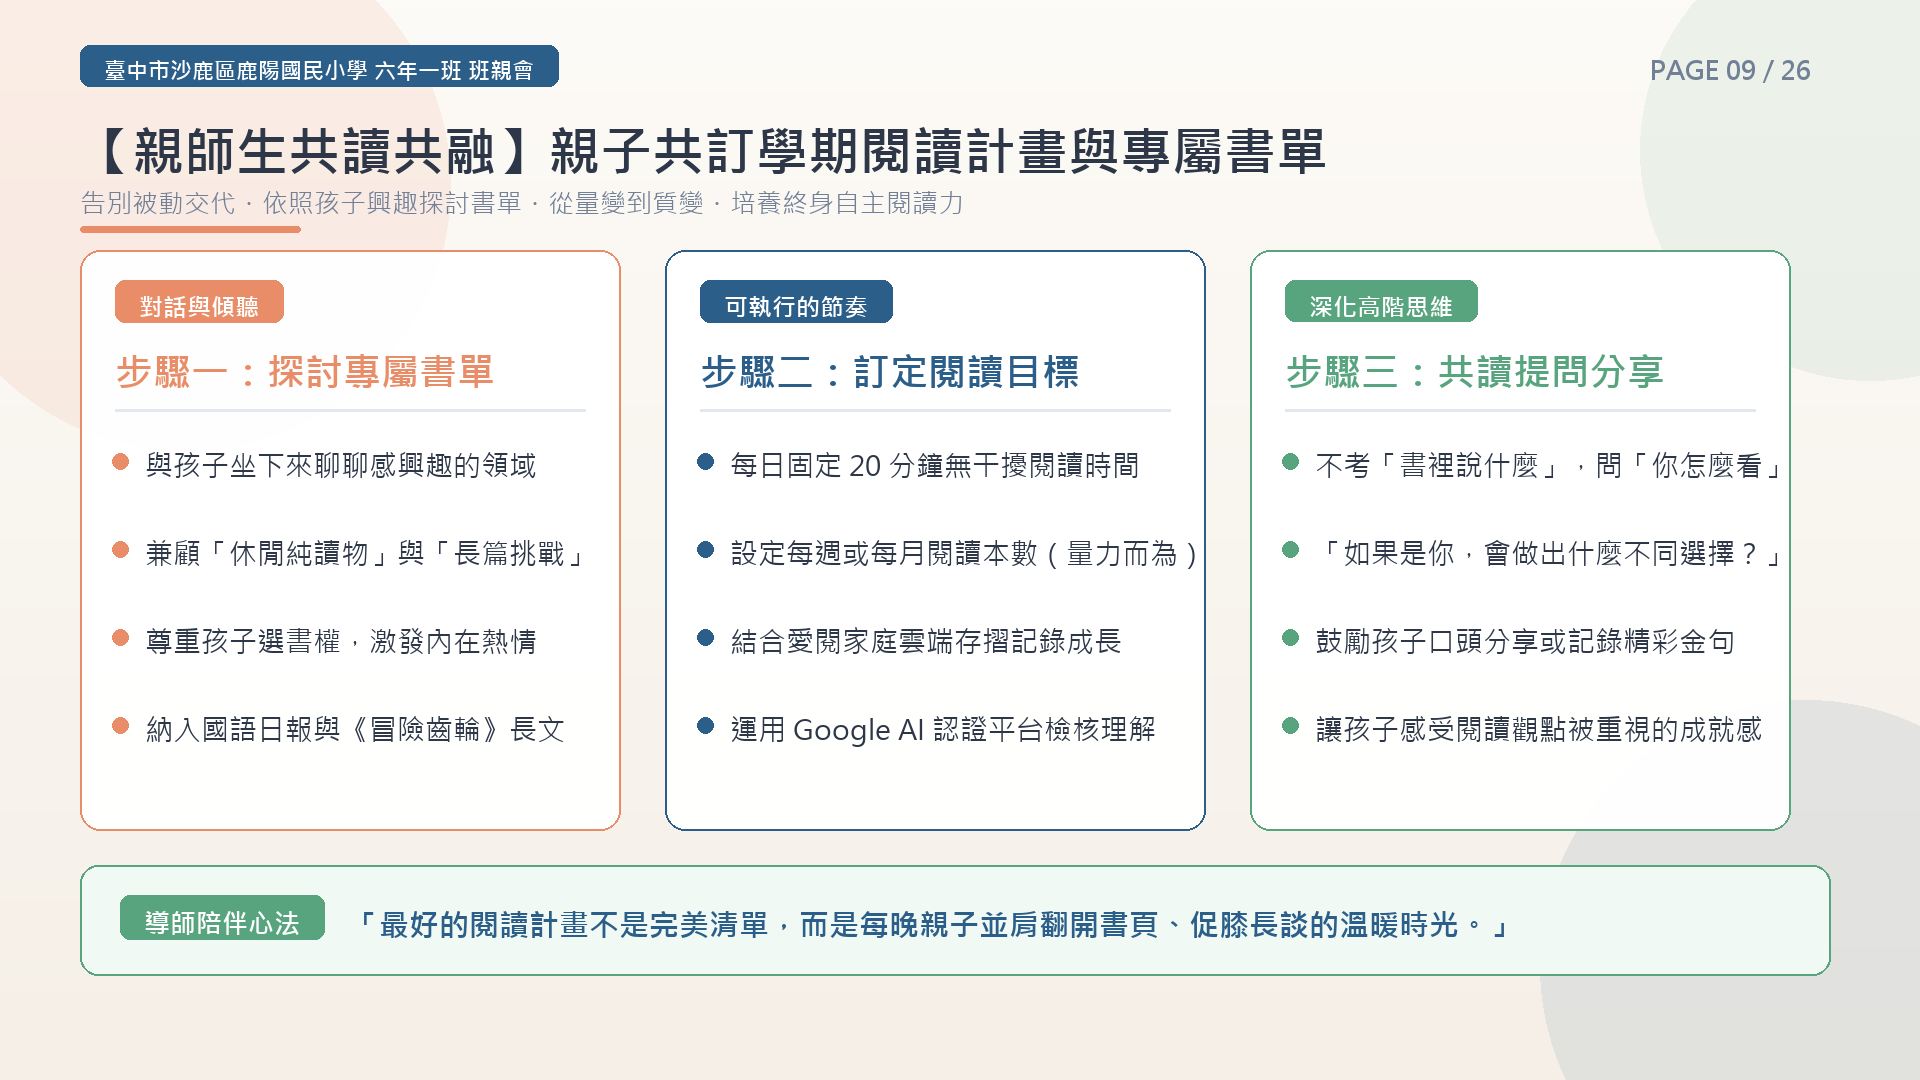
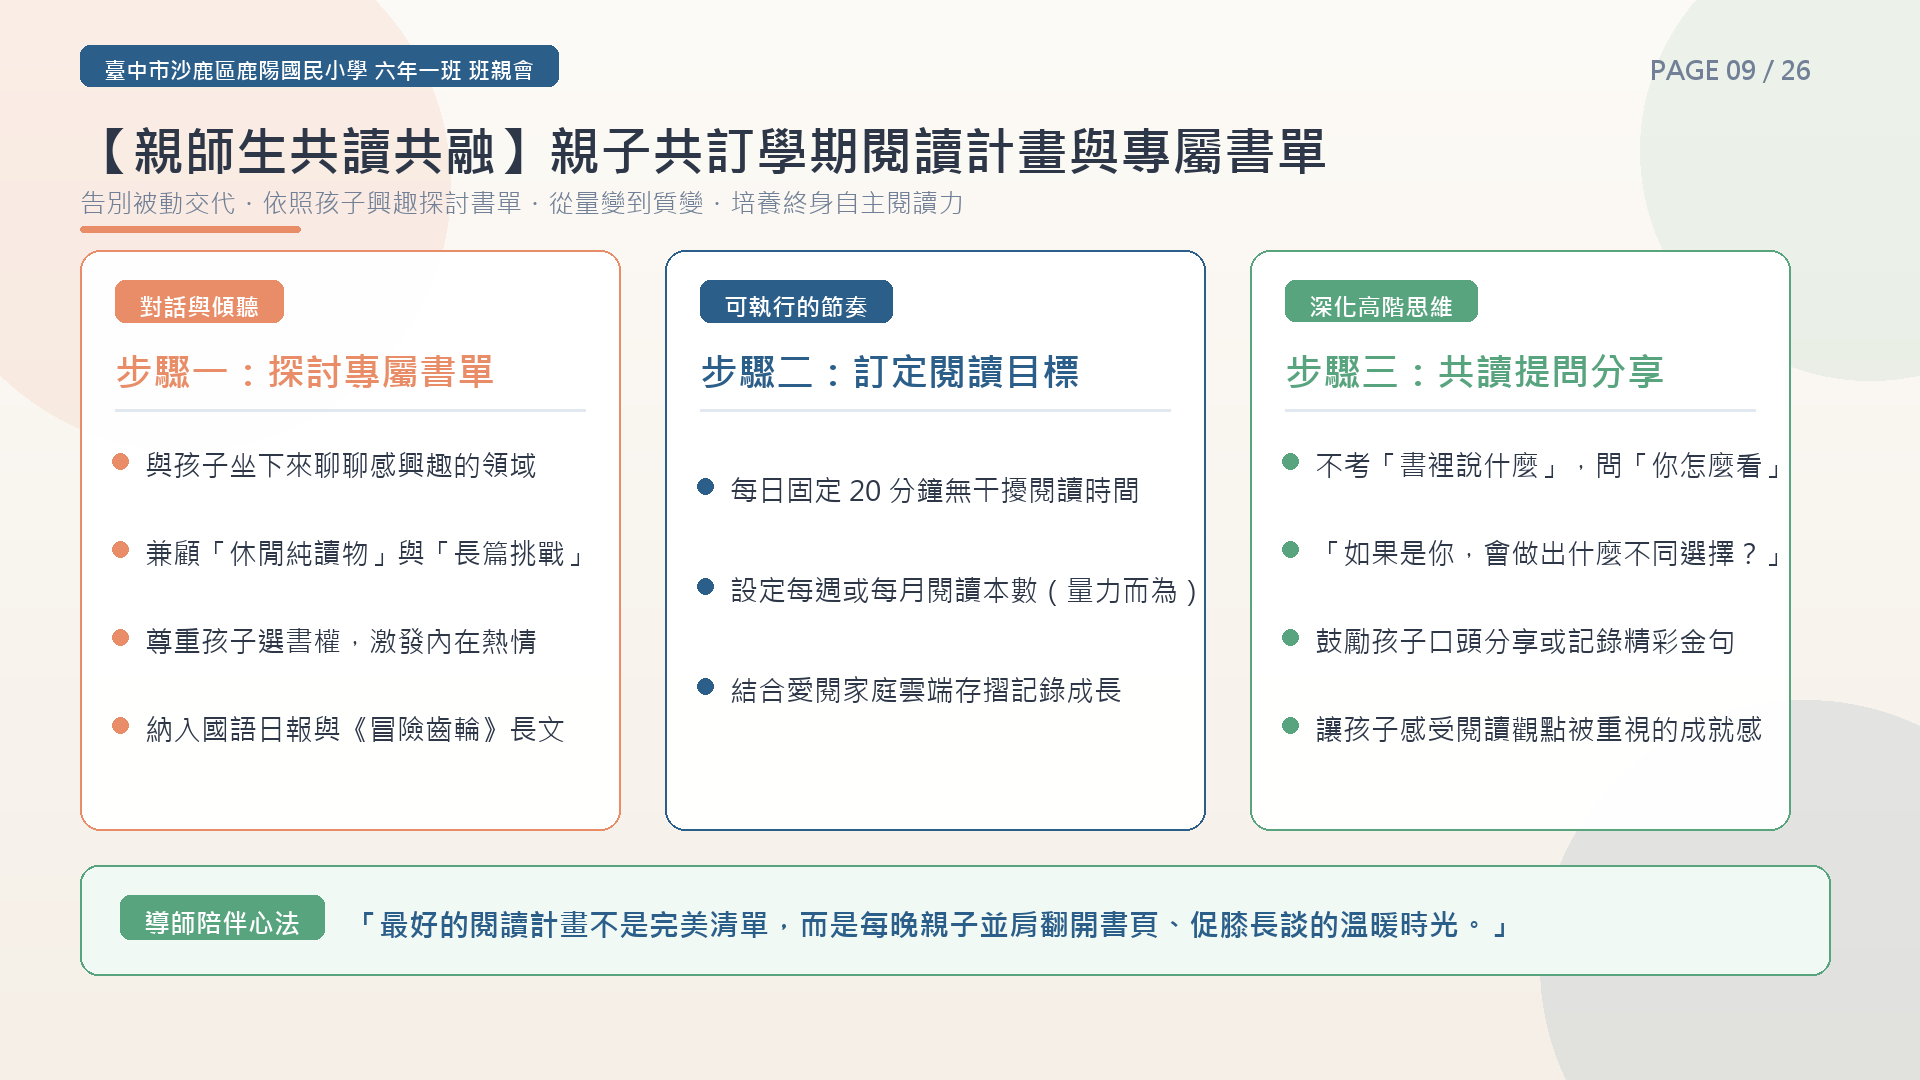
fix(slide-09): 移除第09頁'運用 Google AI 認證平台檢核理解'內容並優化排版

Changed region(s): [[0.3438, 0.4889, 0.625, 0.7028], [0.3438, 0.3972, 0.5938, 0.4583]]

diff --git a/presentation.html b/presentation.html
@@ -434,7 +434,7 @@
       {
         src: "assets/slides/09-reading-plan.png",
         title: "Page 09｜親子共訂閱讀計畫：探討專屬書單與學期目標",
-        notes: "<strong>【親師生共讀共融】</strong> 邀請家長與孩子平起平坐共訂學期閱讀計畫：① <strong>探討專屬書單</strong>：尊重孩子興趣，兼顧放鬆讀物與長篇小說，納入國語日報與《冒險齒輪》；② <strong>訂定閱讀目標</strong>：每日固定 20 分鐘無干擾閱讀，登錄愛閱家庭存摺與 AI 認證；③ <strong>共讀提問分享</strong>：不考死記題目，多問「如果是你，會做什麼選擇？」，讓孩子享受文字被傾聽的成就感。"
+        notes: "<strong>【親師生共讀共融】</strong> 邀請家長與孩子平起平坐共訂學期閱讀計畫：① <strong>探討專屬書單</strong>：尊重孩子興趣，兼顧放鬆讀物與長篇小說，納入國語日報與《冒險齒輪》；② <strong>訂定閱讀目標</strong>：每日固定 20 分鐘無干擾閱讀，登錄愛閱家庭雲端智慧存摺；③ <strong>共讀提問分享</strong>：不考死記題目，多問「如果是你，會做什麼選擇？」，讓孩子享受文字被傾聽的成就感。"
       },
       {
         src: "assets/slides/10-reading-ai.png",

diff --git a/website/presentation.html b/website/presentation.html
@@ -434,7 +434,7 @@
       {
         src: "assets/slides/09-reading-plan.png",
         title: "Page 09｜親子共訂閱讀計畫：探討專屬書單與學期目標",
-        notes: "<strong>【親師生共讀共融】</strong> 邀請家長與孩子平起平坐共訂學期閱讀計畫：① <strong>探討專屬書單</strong>：尊重孩子興趣，兼顧放鬆讀物與長篇小說，納入國語日報與《冒險齒輪》；② <strong>訂定閱讀目標</strong>：每日固定 20 分鐘無干擾閱讀，登錄愛閱家庭存摺與 AI 認證；③ <strong>共讀提問分享</strong>：不考死記題目，多問「如果是你，會做什麼選擇？」，讓孩子享受文字被傾聽的成就感。"
+        notes: "<strong>【親師生共讀共融】</strong> 邀請家長與孩子平起平坐共訂學期閱讀計畫：① <strong>探討專屬書單</strong>：尊重孩子興趣，兼顧放鬆讀物與長篇小說，納入國語日報與《冒險齒輪》；② <strong>訂定閱讀目標</strong>：每日固定 20 分鐘無干擾閱讀，登錄愛閱家庭雲端智慧存摺；③ <strong>共讀提問分享</strong>：不考死記題目，多問「如果是你，會做什麼選擇？」，讓孩子享受文字被傾聽的成就感。"
       },
       {
         src: "assets/slides/10-reading-ai.png",

diff --git a/全螢幕簡報.html b/全螢幕簡報.html
@@ -434,7 +434,7 @@
       {
         src: "assets/slides/09-reading-plan.png",
         title: "Page 09｜親子共訂閱讀計畫：探討專屬書單與學期目標",
-        notes: "<strong>【親師生共讀共融】</strong> 邀請家長與孩子平起平坐共訂學期閱讀計畫：① <strong>探討專屬書單</strong>：尊重孩子興趣，兼顧放鬆讀物與長篇小說，納入國語日報與《冒險齒輪》；② <strong>訂定閱讀目標</strong>：每日固定 20 分鐘無干擾閱讀，登錄愛閱家庭存摺與 AI 認證；③ <strong>共讀提問分享</strong>：不考死記題目，多問「如果是你，會做什麼選擇？」，讓孩子享受文字被傾聽的成就感。"
+        notes: "<strong>【親師生共讀共融】</strong> 邀請家長與孩子平起平坐共訂學期閱讀計畫：① <strong>探討專屬書單</strong>：尊重孩子興趣，兼顧放鬆讀物與長篇小說，納入國語日報與《冒險齒輪》；② <strong>訂定閱讀目標</strong>：每日固定 20 分鐘無干擾閱讀，登錄愛閱家庭雲端智慧存摺；③ <strong>共讀提問分享</strong>：不考死記題目，多問「如果是你，會做什麼選擇？」，讓孩子享受文字被傾聽的成就感。"
       },
       {
         src: "assets/slides/10-reading-ai.png",

diff --git a/index.html b/index.html
@@ -225,7 +225,7 @@
           <div style="background: #FFF; padding: 1rem 1.2rem; border-radius: var(--radius-md); border: 1px solid var(--card-border);">
             <strong style="color: var(--primary); display: block; margin-bottom: 0.3rem;">🎯 步驟二：訂定閱讀目標</strong>
             <span style="font-size: 0.9rem; color: var(--text-dark); line-height: 1.6; display: block;">
-              每日固定 20 分鐘無干擾共讀時間，訂定每週或每月閱讀目標（量力而為），同步登錄臺中市愛閱家庭智慧存摺與 AI 認證平台。
+              每日固定 20 分鐘無干擾共讀時間，訂定每週或每月閱讀目標（量力而為），同步登錄臺中市愛閱家庭雲端智慧存摺。
             </span>
           </div>
           <div style="background: #FFF; padding: 1rem 1.2rem; border-radius: var(--radius-md); border: 1px solid var(--card-border);">

diff --git a/website/index.html b/website/index.html
@@ -225,7 +225,7 @@
           <div style="background: #FFF; padding: 1rem 1.2rem; border-radius: var(--radius-md); border: 1px solid var(--card-border);">
             <strong style="color: var(--primary); display: block; margin-bottom: 0.3rem;">🎯 步驟二：訂定閱讀目標</strong>
             <span style="font-size: 0.9rem; color: var(--text-dark); line-height: 1.6; display: block;">
-              每日固定 20 分鐘無干擾共讀時間，訂定每週或每月閱讀目標（量力而為），同步登錄臺中市愛閱家庭智慧存摺與 AI 認證平台。
+              每日固定 20 分鐘無干擾共讀時間，訂定每週或每月閱讀目標（量力而為），同步登錄臺中市愛閱家庭雲端智慧存摺。
             </span>
           </div>
           <div style="background: #FFF; padding: 1rem 1.2rem; border-radius: var(--radius-md); border: 1px solid var(--card-border);">

diff --git a/generate_slides.py b/generate_slides.py
@@ -426,8 +426,7 @@ def gen_slide_09():
         ("步驟二：訂定閱讀目標", NAVY, "可執行的節奏", [
             "每日固定 20 分鐘無干擾閱讀時間",
             "設定每週或每月閱讀本數（量力而為）",
-            "結合愛閱家庭雲端存摺記錄成長",
-            "運用 Google AI 認證平台檢核理解"
+            "結合愛閱家庭雲端存摺記錄成長"
         ]),
         ("步驟三：共讀提問分享", GREEN, "深化高階思維", [
             "不考「書裡說什麼」，問「你怎麼看」",
@@ -449,11 +448,17 @@ def gen_slide_09():
         d.text((x + 35, cy + 95), title, font=get_font(True, 38), fill=color)
         d.line([(x + 35, cy + 160), (x + cw - 35, cy + 160)], fill=(226, 232, 240, 255), width=3)
         
-        by = cy + 195
+        # Dynamic spacing for cards with 3 vs 4 bullets
+        if len(bullets) == 3:
+            by = cy + 220
+            step_y = 100
+        else:
+            by = cy + 195
+            step_y = 88
         for b in bullets:
             draw_dot(d, x + 40, by + 16, color=color, r=8)
             d.text((x + 65, by), b, font=get_font(False, 28), fill=TEXT_DARK)
-            by += 88
+            by += step_y
 
     # Bottom Banner: 導師陪伴心法
     base = draw_card(base, [80, 865, 1830, 975], bg_color=(240, 249, 244, 255), border_color=GREEN, radius=18)

diff --git a/speaker-notes.md b/speaker-notes.md
@@ -133,7 +133,7 @@
   * 【親師生共讀共融】親子共訂學期閱讀計畫與專屬書單
   * 告別被動交代・依照孩子興趣探討書單・從量變到質變・培養終身自主閱讀力
   * 步驟一：探討專屬書單（對話與傾聽・尊重孩子選書權・納入時事與長篇）
-  * 步驟二：訂定閱讀目標（可執行的節奏・每日 20 分鐘・結合存摺與 AI 認證）
+  * 步驟二：訂定閱讀目標（可執行的節奏・每日 20 分鐘・結合愛閱家庭存摺）
   * 步驟三：共讀提問分享（深化高階思維・多問看法・口語分享被傾聽的成就感）
   * 「『最好的閱讀計畫不是完美清單，而是每晚親子並肩翻開書頁、促膝長談的溫暖時光。』」
 * **老師可以說**：
